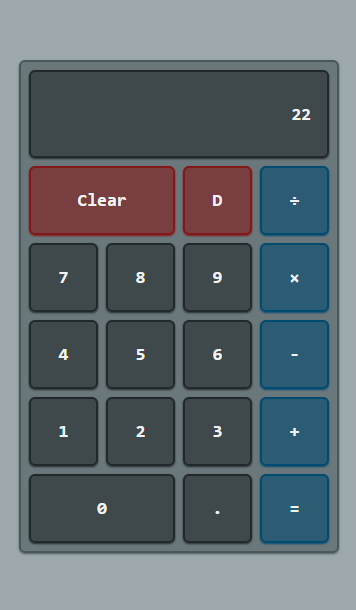
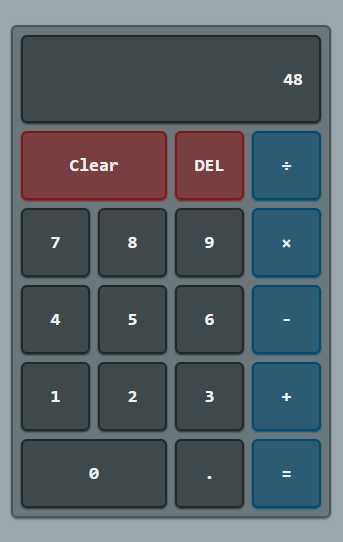
docs: update README.md

diff --git a/README.md b/README.md
@@ -23,6 +23,18 @@ Feel free to contact me or add issue if you see any bug or if you had suggestion
 [![pnpm](https://img.shields.io/badge/pnpm-F69220?logo=pnpm&logoColor=fff)](#)
 [![Vite](https://img.shields.io/badge/Vite-646CFF?logo=vite&logoColor=fff)](#)
 
+## Features 🤖
+
+- Addition
+- Subtraction
+- Multiplication
+- Division
+- Decimal numbers
+- Delete input
+- Clear calculator
+- Division-by-zero error handling
+- Responsive UI
+
 ## Scripts 📄
 
 ```bash
